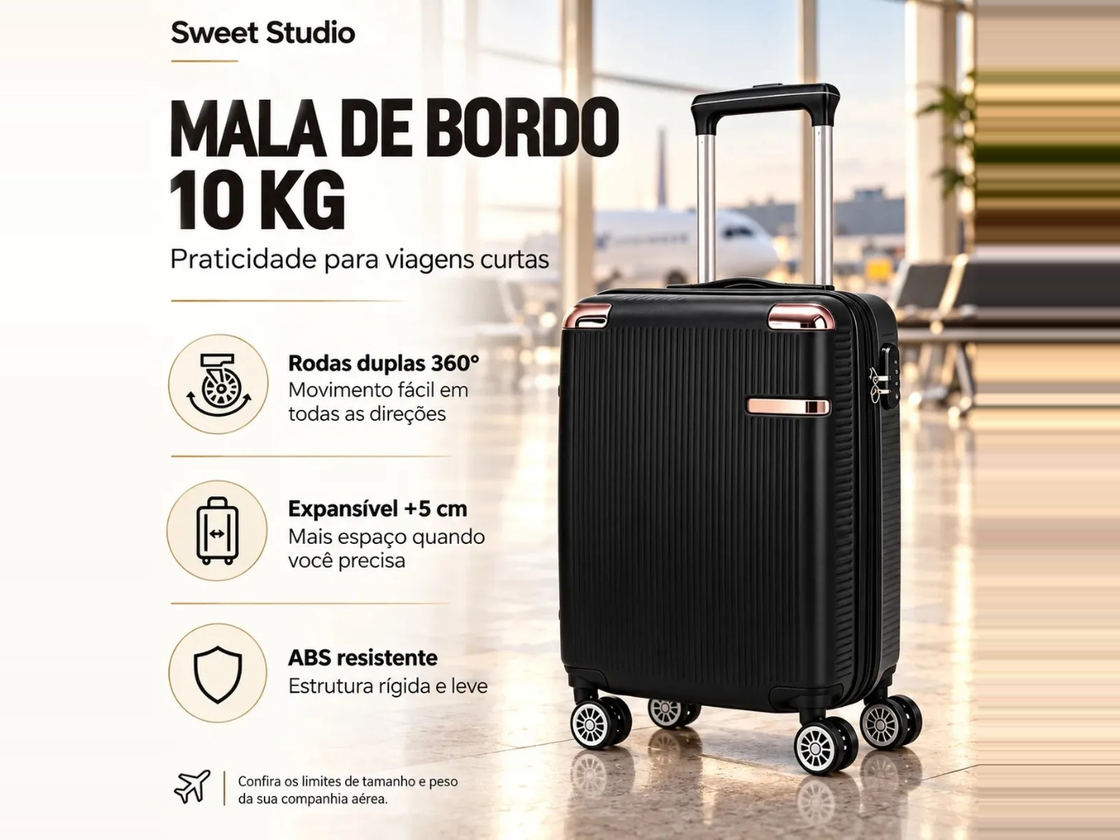
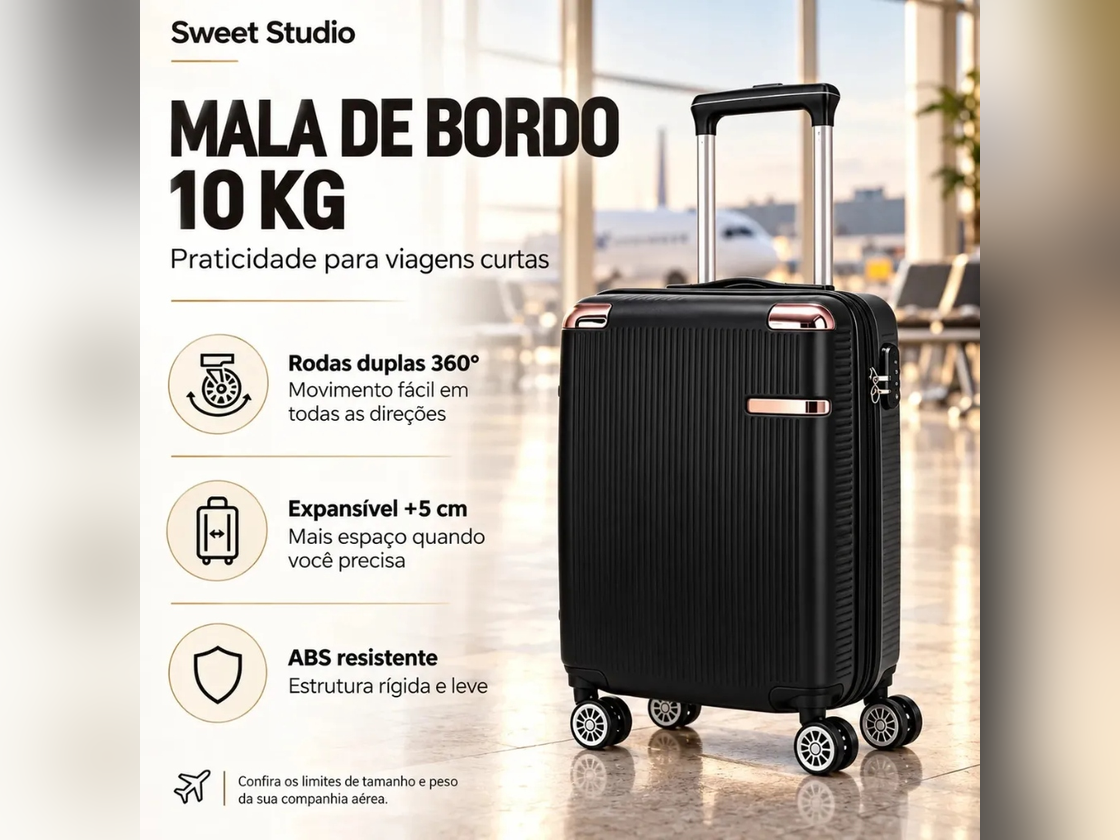
Mala de bordo: imagem com laterais desfocadas (sem listras)

diff --git a/index.html b/index.html
@@ -439,7 +439,7 @@ document.addEventListener('click',function(ev){var a=ev.target&&ev.target.closes
       </div>
     </article>
         <article class="card" data-cat="moda" data-busca="mala de bordo rigida abs preto sweet studio rodas duplas 360 viagem 2080 10kg anac expansivel moda">
-      <div class="thumbwrap"><a class="thumb" href="https://meli.la/2zFFoFh" target="_blank" rel="sponsored nofollow noopener"><span class="badge">Mercado Livre · Mais Vendido</span><img src="img/mala-bordo-sweet-studio.png?v=9a1b2c3d" alt="Mala de Bordo Rígida ABS Sweet Studio" loading="lazy"></a></div>
+      <div class="thumbwrap"><a class="thumb" href="https://meli.la/2zFFoFh" target="_blank" rel="sponsored nofollow noopener"><span class="badge">Mercado Livre · Mais Vendido</span><img src="img/mala-bordo-sweet-studio.png?v=b7e4f102" alt="Mala de Bordo Rígida ABS Sweet Studio" loading="lazy"></a></div>
       <div class="body">
         <span class="cat">Moda e Viagem</span>
         <h3><a href="p/mala-bordo-sweet-studio.html" style="color:inherit">Mala de Bordo Rígida ABS Sweet Studio</a></h3>

diff --git a/moda.html b/moda.html
@@ -71,7 +71,7 @@ document.addEventListener('click',function(ev){var a=ev.target&&ev.target.closes
   </section>
   <div class="grid">
     <article class="card" data-cat="moda" data-busca="mala de bordo rigida abs preto sweet studio rodas duplas 360 viagem 2080 10kg anac expansivel moda">
-      <div class="thumbwrap"><a class="thumb" href="https://meli.la/2zFFoFh" target="_blank" rel="sponsored nofollow noopener"><span class="badge">Mercado Livre · Mais Vendido</span><img src="img/mala-bordo-sweet-studio.png?v=9a1b2c3d" alt="Mala de Bordo Rígida ABS Sweet Studio" loading="lazy"></a></div>
+      <div class="thumbwrap"><a class="thumb" href="https://meli.la/2zFFoFh" target="_blank" rel="sponsored nofollow noopener"><span class="badge">Mercado Livre · Mais Vendido</span><img src="img/mala-bordo-sweet-studio.png?v=b7e4f102" alt="Mala de Bordo Rígida ABS Sweet Studio" loading="lazy"></a></div>
       <div class="body">
         <span class="cat">Moda e Viagem</span>
         <h3><a href="p/mala-bordo-sweet-studio.html" style="color:inherit">Mala de Bordo Rígida ABS Sweet Studio</a></h3>

diff --git a/promocoes.html b/promocoes.html
@@ -71,7 +71,7 @@ document.addEventListener('click',function(ev){var a=ev.target&&ev.target.closes
   </section>
   <div class="grid">
     <article class="card" data-cat="moda" data-busca="mala de bordo rigida abs preto sweet studio rodas duplas 360 viagem 2080 10kg anac expansivel moda">
-      <div class="thumbwrap"><a class="thumb" href="https://meli.la/2zFFoFh" target="_blank" rel="sponsored nofollow noopener"><span class="badge">Mercado Livre · Mais Vendido</span><img src="img/mala-bordo-sweet-studio.png?v=9a1b2c3d" alt="Mala de Bordo Rígida ABS Sweet Studio" loading="lazy"></a></div>
+      <div class="thumbwrap"><a class="thumb" href="https://meli.la/2zFFoFh" target="_blank" rel="sponsored nofollow noopener"><span class="badge">Mercado Livre · Mais Vendido</span><img src="img/mala-bordo-sweet-studio.png?v=b7e4f102" alt="Mala de Bordo Rígida ABS Sweet Studio" loading="lazy"></a></div>
       <div class="body">
         <span class="cat">Moda e Viagem</span>
         <h3><a href="p/mala-bordo-sweet-studio.html" style="color:inherit">Mala de Bordo Rígida ABS Sweet Studio</a></h3>

diff --git a/p/mala-bordo-sweet-studio.html b/p/mala-bordo-sweet-studio.html
@@ -67,7 +67,7 @@ document.addEventListener('click',function(ev){var a=ev.target&&ev.target.closes
   <div class="migalha"><a href="../index.html">Início</a> /
     <a href="../moda.html">Moda e Viagem</a> / Mala de Bordo Rígida ABS Sweet Studio</div>
   <section class="prod">
-    <div class="foto"><a href="https://meli.la/2zFFoFh" target="_blank" rel="sponsored nofollow noopener" title="Ver oferta no Mercado Livre"><img src="../img/mala-bordo-sweet-studio.png?v=9a1b2c3d" alt="Mala de Bordo Rígida ABS Sweet Studio"></a></div>
+    <div class="foto"><a href="https://meli.la/2zFFoFh" target="_blank" rel="sponsored nofollow noopener" title="Ver oferta no Mercado Livre"><img src="../img/mala-bordo-sweet-studio.png?v=b7e4f102" alt="Mala de Bordo Rígida ABS Sweet Studio"></a></div>
     <div>
       <span class="cat" style="color:#38bdf8;font-size:11px;font-weight:800;letter-spacing:.1em">Mercado Livre · Mais Vendido · Nota 4.8 ★★★★★</span>
       <h1>Mala de Bordo Rígida ABS Sweet Studio (Preto 2080)</h1>
